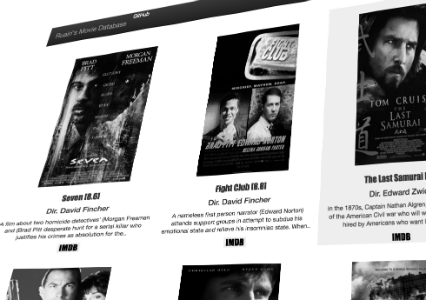
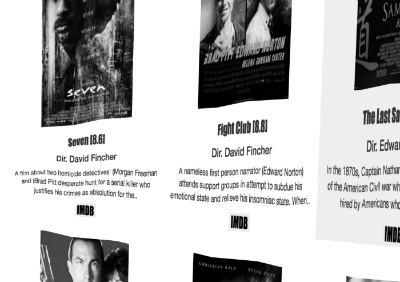
Updated Readme and altered images

diff --git a/index.html b/index.html
@@ -46,7 +46,7 @@
                 <a href="https://github.com/grocer-of-despair/RuairisMovieTrailerWebsite" target="_blank">GitHub Repository</a>
               </article>
             </section>
-            <section class="features-item">
+            <section class="features-item portfolio-website">
               <article class="features-info col-12">
                 <h4>Portfolio Website</h4>
                 <a href="http://www.github.com" target="_blank">GitHub Repository</a>

diff --git a/css/main.css b/css/main.css
@@ -174,6 +174,9 @@ ul {
   color: white;
 }
 
+.portfolio-website {
+  background-image: url(../img/portfolio_website.png);
+}
 .movie-trailer-website {
   background-image: url(../img/movie_website.png);
 }

diff --git a/README.md b/README.md
@@ -1,0 +1,23 @@
+# Ruairi's Portfolio Website
+A Python Movie Database for displaying information and playing trailers of Movies.
+
+## Description
+This is Project 2 for the Udacity Full Stack Nanodegree. I was required to design and develop a responsive webpage based on a rough template, to showcase my projects. I was required to include HTML, CSS and optional elements of Javascript.
+
+### Primary Features
+- [x] Responsive design that adapts to the screen resolution of any device.
+- [x] CSS Media links to change Stylesheets depending on the resolution of the screen.
+- [x] Page adheres to HTML/CSS Formatting and Style Guidelines.
+- [x] Code is ready for personal review and neatly formatted.
+- [x] Portfolio meets the Seperation of Concerns and File Structure Specifications.
+- [x] A `README` file includes details of all the project.
+
+### Extras
+- Contains CSS elements similar to Bootstrap.
+- Contains [scrollTo](https://github.com/flesler/jquery.scrollTo) and [navScroll](https://github.com/jhammann/jquery-navScroll) JavaScript Packages to navigate around the page.
+- Includes a link to the projects GitHub Repository, Udacity Profile, Google Certificates
+- Includes a Mailto link, Google Maps iframe and Telephone link.
+- Uses Google Material Icons and Google Fonts
+
+## License
+The contents of this repository are covered under the [GNU GENERAL PUBLIC LICENSE](LICENSE.txt).
